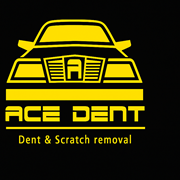
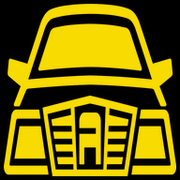
chore: 파비콘 심볼 세트 교체

diff --git a/index.html b/index.html
@@ -9,8 +9,7 @@
     />
     <meta name="robots" content="index, follow" />
     <link rel="canonical" href="https://www.acedentshop.co.kr" />
-    <link rel="icon" href="/favicon.ico" sizes="any" />
-    <link rel="icon" type="image/png" sizes="48x48" href="/favicon-48x48.png" />
+    <link rel="icon" href="/favicon.ico" sizes="48x48" />
     <link rel="icon" type="image/png" sizes="96x96" href="/favicon-96x96.png" />
     <link rel="icon" type="image/png" sizes="192x192" href="/favicon-192x192.png" />
     <link rel="apple-touch-icon" sizes="180x180" href="/apple-touch-icon.png" />

diff --git a/app/layout.tsx b/app/layout.tsx
@@ -51,8 +51,7 @@ export const metadata: Metadata = {
   },
   icons: {
     icon: [
-      { url: '/favicon.ico' },
-      { url: '/favicon-48x48.png', type: 'image/png', sizes: '48x48' },
+      { url: '/favicon.ico', sizes: '48x48' },
       { url: '/favicon-96x96.png', type: 'image/png', sizes: '96x96' },
       { url: '/favicon-192x192.png', type: 'image/png', sizes: '192x192' },
     ],
